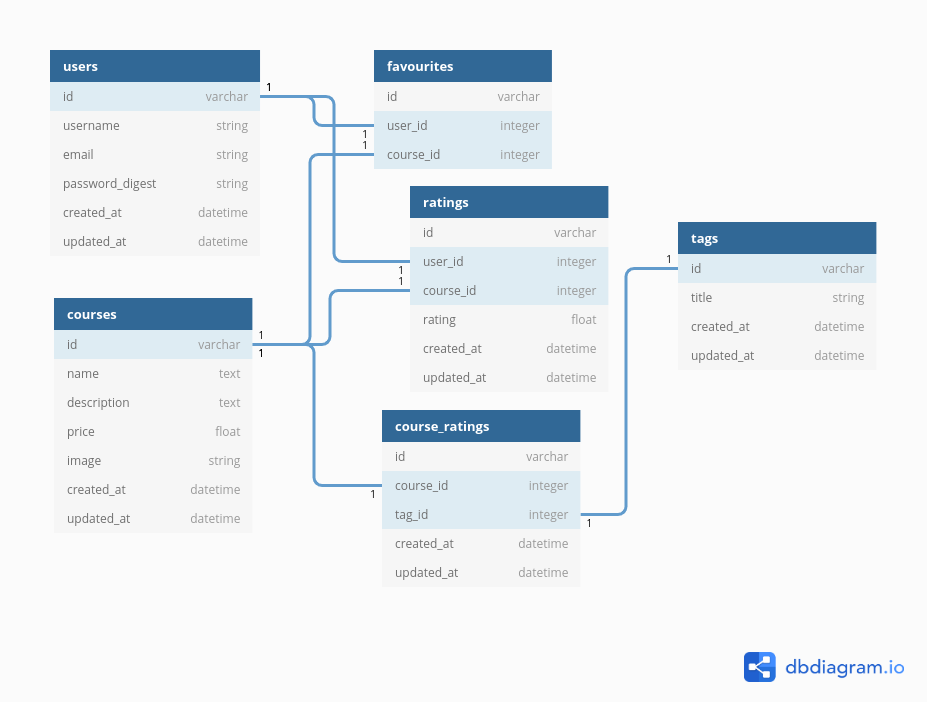
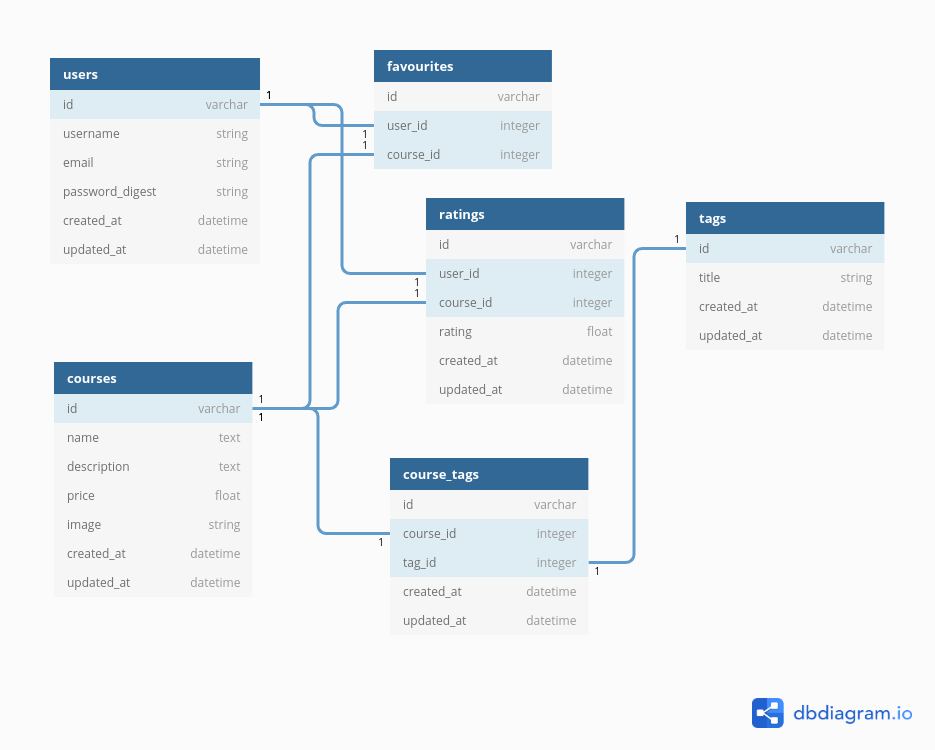
renamed table from course_ratings to course_tags, updated the ERD and the files with the old name

diff --git a/app/models/course.rb b/app/models/course.rb
@@ -1,8 +1,8 @@
 class Course < ApplicationRecord
   # associations
   has_many :favoritors, class_name: 'Favourite', foreign_key: 'course_id', dependent: :destroy
-  has_many :raters, class_name: 'Favourite', foreign_key: 'course_id', dependent: :destroy
-  has_many :tags, class_name: 'CourseRating', foreign_key: 'course_id', dependent: :destroy
+  has_many :raters, class_name: 'Rating', foreign_key: 'course_id', dependent: :destroy
+  has_many :tags, class_name: 'CourseTag', foreign_key: 'course_id', dependent: :destroy
 
   # validatios
   validates_presence_of :name, :description, :price

diff --git a/db/schema.rb b/db/schema.rb
@@ -10,12 +10,12 @@
 #
 # It's strongly recommended that you check this file into your version control system.
 
-ActiveRecord::Schema.define(version: 2020_09_30_155423) do
+ActiveRecord::Schema.define(version: 2020_09_30_172105) do
 
   # These are extensions that must be enabled in order to support this database
   enable_extension "plpgsql"
 
-  create_table "course_ratings", force: :cascade do |t|
+  create_table "course_tags", force: :cascade do |t|
     t.integer "course_id"
     t.integer "tag_id"
     t.datetime "created_at", precision: 6, null: false

diff --git a/spec/models/user_spec.rb b/spec/models/user_spec.rb
@@ -3,7 +3,7 @@ require 'rails_helper'
 RSpec.describe User, type: :model do
   it { should have_many(:favorites).dependent(:destroy) }
   it { should have_many(:ratings).dependent(:destroy) }
-  
+
   it { should validate_presence_of(:username) }
   it { should validate_presence_of(:email) }
   it { should validate_presence_of(:password_digest) }

diff --git a/app/models/tag.rb b/app/models/tag.rb
@@ -1,6 +1,6 @@
 class Tag < ApplicationRecord
   # associations
-  has_many :tagged, class_name: 'CourseRating', foreign_key: 'tag_id', dependent: :destroy
+  has_many :tagged, class_name: 'CourseTag', foreign_key: 'tag_id', dependent: :destroy
 
   # validations
   validates_presence_of :title

diff --git a/spec/models/rating_spec.rb b/spec/models/rating_spec.rb
@@ -6,5 +6,5 @@ RSpec.describe Rating, type: :model do
 
   it { should validate_presence_of(:course_id) }
   it { should validate_presence_of(:user_id) }
-  it { should validate_presence_of(:rating)}
+  it { should validate_presence_of(:rating) }
 end

diff --git a/spec/models/course_tag_spec.rb b/spec/models/course_tag_spec.rb
@@ -1,6 +1,6 @@
 require 'rails_helper'
 
-RSpec.describe CourseRating, type: :model do
+RSpec.describe CourseTag, type: :model do
   it { should belong_to(:course) }
   it { should belong_to(:tag) }
 

diff --git a/app/models/course_tag.rb b/app/models/course_tag.rb
@@ -1,4 +1,4 @@
-class CourseRating < ApplicationRecord
+class CourseTag < ApplicationRecord
   # associations
   belongs_to :course
   belongs_to :tag

diff --git a/db/migrate/20200930172105_rename_course_rating.rb b/db/migrate/20200930172105_rename_course_rating.rb
@@ -1,0 +1,5 @@
+class RenameCourseRating < ActiveRecord::Migration[6.0]
+  def change
+    rename_table :course_ratings, :course_tags
+  end
+end
